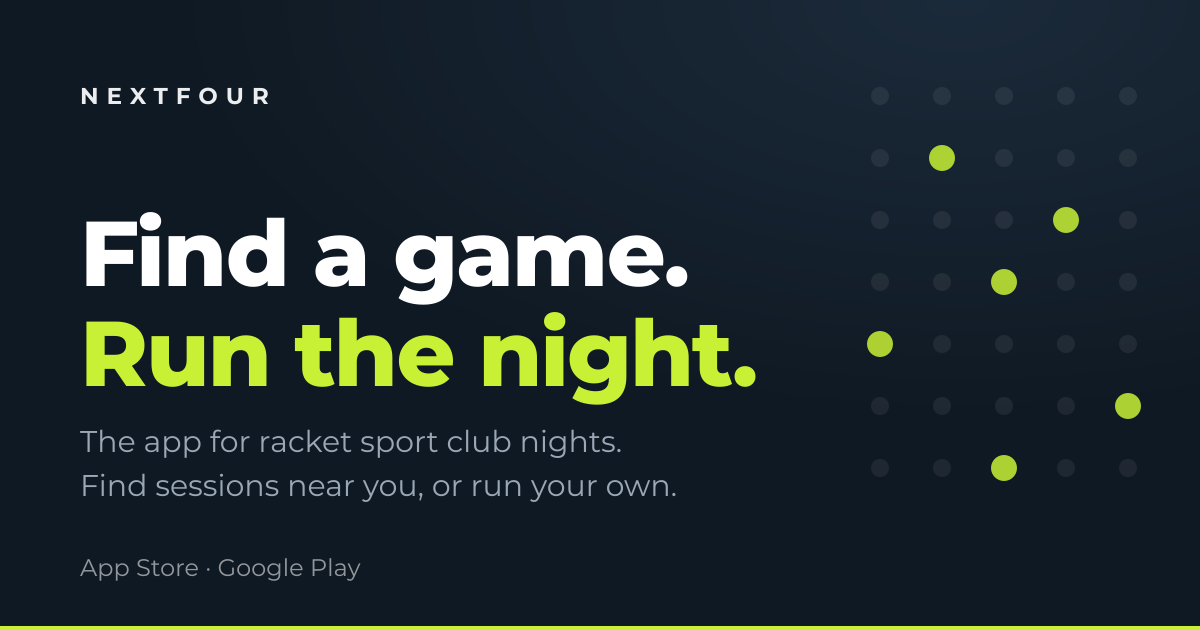
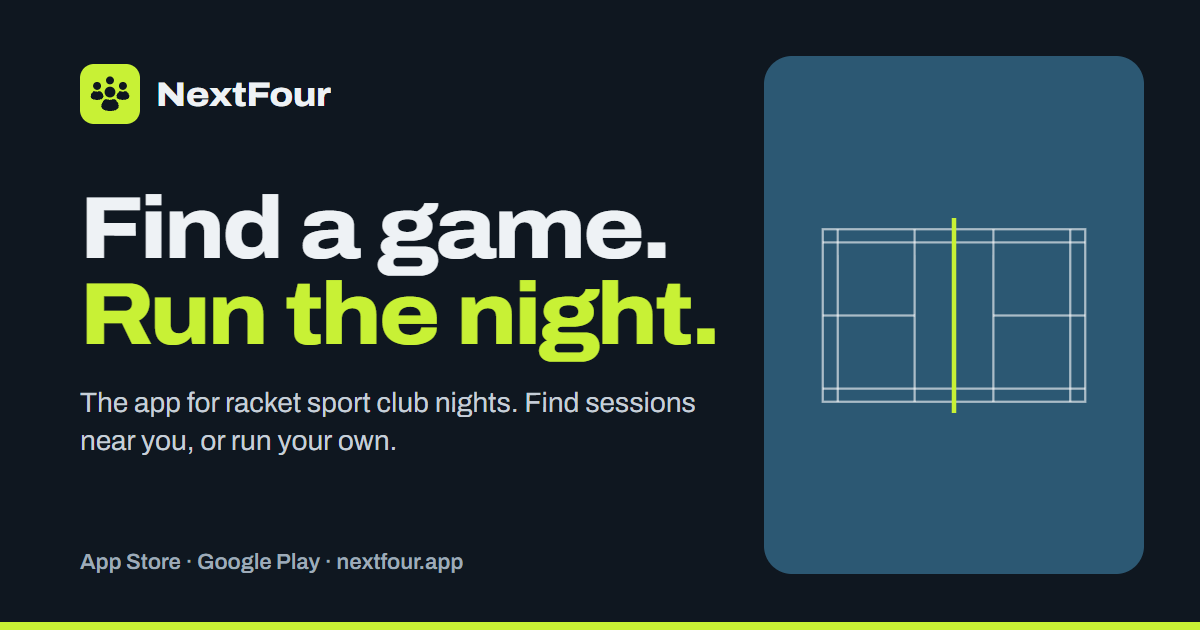
feat(site): polish: link preview, French Play badge, Auto theme, light hand-off pages
- og.png redrawn in the site's design: Archivo, the logo, lime on navy and
  the court panel.
- French pages use Google Play's French badge (Apple's still to come).
- The theme button cycles Auto, Light, Dark; Auto follows the device and
  clears the saved choice. The icon shows the current setting.
- /join, /claim and /club-claim share one stylesheet in the site's tokens,
  so they follow light and dark like every other page.
- Search snippets for the legal pages (EN and FR); the home page ones cut
  to under 160 characters.
- The finder's hint fits a phone: "e.g. SM1 or Sutton".

diff --git a/src/styles/handoff.css b/src/styles/handoff.css
@@ -1,0 +1,85 @@
+/*
+ * The app hand-off pages (/join, /claim, /club-claim): a single centred card
+ * that gets someone from a link to the app. In the site's colours, light or
+ * dark from the visitor's setting or the toggle's saved choice (Base's
+ * ThemeHead applies it before paint). Imported by each of the three pages.
+ */
+@font-face {
+  font-family: 'Archivo';
+  font-style: normal;
+  font-weight: 400 800;
+  font-stretch: 62% 125%;
+  font-display: swap;
+  src: url(/fonts/archivo-latin.woff2) format('woff2');
+}
+:root {
+  color-scheme: light;
+  --bg: #F3F5EF; --surface: #FFFFFF; --line-strong: #B9C4B4;
+  --ink: #12261C; --muted: #50605A; --body: #33443B;
+  --hl-bg: #C8F135; --hl-fg: #12261C; --logo-bg: #12261C; --logo-fg: #C8F135;
+}
+@media (prefers-color-scheme: dark) {
+  :root:not([data-theme='light']) {
+    color-scheme: dark;
+    --bg: #0F1720; --surface: #18212B; --line-strong: #3E4D5E;
+    --ink: #EEF2F5; --muted: #9EABB8; --body: #C6CFD8;
+    --logo-bg: #C8F135; --logo-fg: #0F1720;
+  }
+}
+:root[data-theme='dark'] {
+  color-scheme: dark;
+  --bg: #0F1720; --surface: #18212B; --line-strong: #3E4D5E;
+  --ink: #EEF2F5; --muted: #9EABB8; --body: #C6CFD8;
+  --logo-bg: #C8F135; --logo-fg: #0F1720;
+}
+
+body {
+  margin: 0;
+  font-family: 'Archivo', system-ui, -apple-system, 'Segoe UI', sans-serif;
+  background: var(--bg);
+  color: var(--ink);
+  display: flex;
+  min-height: 100vh;
+  align-items: center;
+  justify-content: center;
+  padding: 24px 16px;
+  box-sizing: border-box;
+}
+.card { width: 100%; max-width: 420px; text-align: center; }
+h1 { font-size: 1.75rem; font-weight: 800; font-stretch: 108%; letter-spacing: -0.01em; line-height: 1.15; margin: 0 0 10px; }
+p { color: var(--body); line-height: 1.5; margin: 0 0 24px; }
+.code {
+  font-family: ui-monospace, SFMono-Regular, Menlo, monospace;
+  font-size: 2.25rem;
+  font-weight: 800;
+  letter-spacing: 0.35em;
+  /* Trailing letter-spacing would push it off-centre. */
+  text-indent: 0.35em;
+  padding: 16px;
+  border-radius: 14px;
+  background: var(--surface);
+  border: 1px solid var(--line-strong);
+  margin-bottom: 8px;
+  word-break: break-all;
+}
+.hint { font-size: 0.85rem; color: var(--muted); margin-bottom: 24px; }
+.btn {
+  display: flex;
+  align-items: center;
+  justify-content: center;
+  min-height: 48px;
+  box-sizing: border-box;
+  padding: 0 20px;
+  border-radius: 999px;
+  background: var(--hl-bg);
+  color: var(--hl-fg);
+  font-weight: 800;
+  text-decoration: none;
+  margin-bottom: 12px;
+}
+.btn:hover { opacity: 0.92; }
+.btn-secondary { background: transparent; color: var(--ink); border: 1.5px solid var(--ink); font-weight: 700; }
+.pending { font-size: 0.95rem; color: var(--ink); margin: 0 0 12px; }
+.steps { margin-top: 24px; font-size: 0.85rem; color: var(--muted); text-align: left; line-height: 1.5; }
+.steps li { margin-bottom: 6px; }
+[hidden] { display: none !important; }

diff --git a/src/content.config.ts b/src/content.config.ts
@@ -10,6 +10,8 @@ const legal = defineCollection({
     // Text shown in the small line under the page heading
     // (e.g. "Last updated: 7 May 2026").
     meta: z.string(),
+    // The page's search result snippet (meta description), 160 characters at most.
+    description: z.string().max(160).optional(),
   }),
 });
 

diff --git a/src/content/legal/fr/terms.md b/src/content/legal/fr/terms.md
@@ -1,6 +1,7 @@
 ---
 title: Conditions générales
 meta: "Dernière mise à jour : 10 octobre 2026"
+description: "Les conditions d’utilisation de NextFour : votre compte, les abonnements et paiements, l’usage acceptable, les clubs et sessions, et nous contacter."
 ---
 
 Les présentes Conditions générales (« Conditions ») régissent votre utilisation de l'application mobile NextFour et de tout service associé (ensemble, le « Service ») fourni par NextFour Ltd, société immatriculée en Angleterre et au pays de Galles sous le numéro 17355223, dont le siège social se situe au 167-169 Great Portland Street, 5th Floor, Londres, W1W 5PF, Royaume-Uni (« NextFour », « nous », « notre »). En créant un compte ou en utilisant le Service, vous acceptez les présentes Conditions. Si vous ne les acceptez pas, n'utilisez pas le Service.

diff --git a/src/content/legal/fr/privacy.md b/src/content/legal/fr/privacy.md
@@ -1,6 +1,7 @@
 ---
 title: Politique de confidentialité
 meta: "Dernière mise à jour : 24 octobre 2026"
+description: "Comment NextFour collecte, utilise et protège vos données personnelles selon le RGPD britannique, et comment les consulter, modifier ou supprimer."
 ---
 
 La présente Politique de confidentialité explique comment NextFour (« nous », « notre ») collecte, utilise, conserve et partage vos données personnelles lorsque vous utilisez l'application mobile NextFour et les services associés (le « Service »). Le Service est fourni par NextFour Ltd, société immatriculée en Angleterre et au pays de Galles, et nous nous conformons au Règlement général sur la protection des données du Royaume-Uni (UK GDPR) ainsi qu'au Data Protection Act 2018.

diff --git a/src/content/legal/en/terms.md b/src/content/legal/en/terms.md
@@ -1,6 +1,7 @@
 ---
 title: Terms & Conditions
 meta: "Last updated: 10 October 2026"
+description: "The terms for using NextFour: your account, subscriptions and payments, acceptable use, club and session features, and how to contact us."
 ---
 
 These Terms & Conditions ("Terms") govern your use of the NextFour mobile application and any related services (together, the "Service") provided by NextFour Ltd, a company registered in England and Wales under company number 17355223, whose registered office is at 167-169 Great Portland Street, 5th Floor, London, W1W 5PF, United Kingdom ("NextFour", "we", "us", "our"). By creating an account or using the Service, you agree to these Terms. If you do not agree, do not use the Service.

diff --git a/src/content/legal/en/privacy.md b/src/content/legal/en/privacy.md
@@ -1,6 +1,7 @@
 ---
 title: Privacy Policy
 meta: "Last updated: 24 October 2026"
+description: "How NextFour collects, uses and protects your personal data under UK GDPR, and how to see, change or delete what we hold about you."
 ---
 
 This Privacy Policy explains how NextFour ("we", "us", "our") collects, uses, stores, and shares your personal data when you use the NextFour mobile application and related services (the "Service"). The Service is provided by NextFour Ltd, a company registered in England and Wales, and we comply with the UK General Data Protection Regulation (UK GDPR) and the Data Protection Act 2018.

diff --git a/src/content/legal/fr/delete-account.md b/src/content/legal/fr/delete-account.md
@@ -1,6 +1,7 @@
 ---
 title: Suppression du compte et des données
 meta: "Dernière mise à jour : 10 octobre 2026"
+description: "Comment supprimer votre compte NextFour et vos données, dans l’application ou par e-mail, ce qui est effacé, et résilier un abonnement avant."
 ---
 
 Cette page explique comment supprimer définitivement votre compte NextFour et toutes les données personnelles associées. NextFour respecte votre droit à l'effacement au titre du Règlement général sur la protection des données du Royaume-Uni (UK GDPR).

diff --git a/src/content/legal/en/delete-account.md b/src/content/legal/en/delete-account.md
@@ -1,6 +1,7 @@
 ---
 title: Account & Data Deletion
 meta: "Last updated: 10 October 2026"
+description: "How to delete your NextFour account and data, in the app or by email, what is removed, and how to cancel a subscription first."
 ---
 
 This page explains how to permanently delete your NextFour account and all associated personal data. NextFour respects your right to erasure under the UK General Data Protection Regulation (UK GDPR).

diff --git a/src/content/legal/fr/support.md b/src/content/legal/fr/support.md
@@ -1,6 +1,7 @@
 ---
 title: Assistance
 meta: Le gestionnaire de club de sports de raquette.
+description: "Aide pour NextFour : premiers pas, clubs, abonnements et facturation, votre compte et vos données, et comment contacter notre assistance."
 ---
 
 Besoin d'aide avec NextFour ? La plupart des questions trouvent leur réponse ci-dessous. Si vous êtes toujours bloqué, écrivez-nous et nous vous répondrons.

diff --git a/src/content/legal/en/support.md b/src/content/legal/en/support.md
@@ -1,6 +1,7 @@
 ---
 title: Support
 meta: The racket sport club manager.
+description: "Help with NextFour: getting started, clubs, subscriptions and billing, and your account and data, with how to contact our support team."
 ---
 
 Need a hand with NextFour? Most questions are answered below. If you're still stuck, email us and we'll get back to you.
